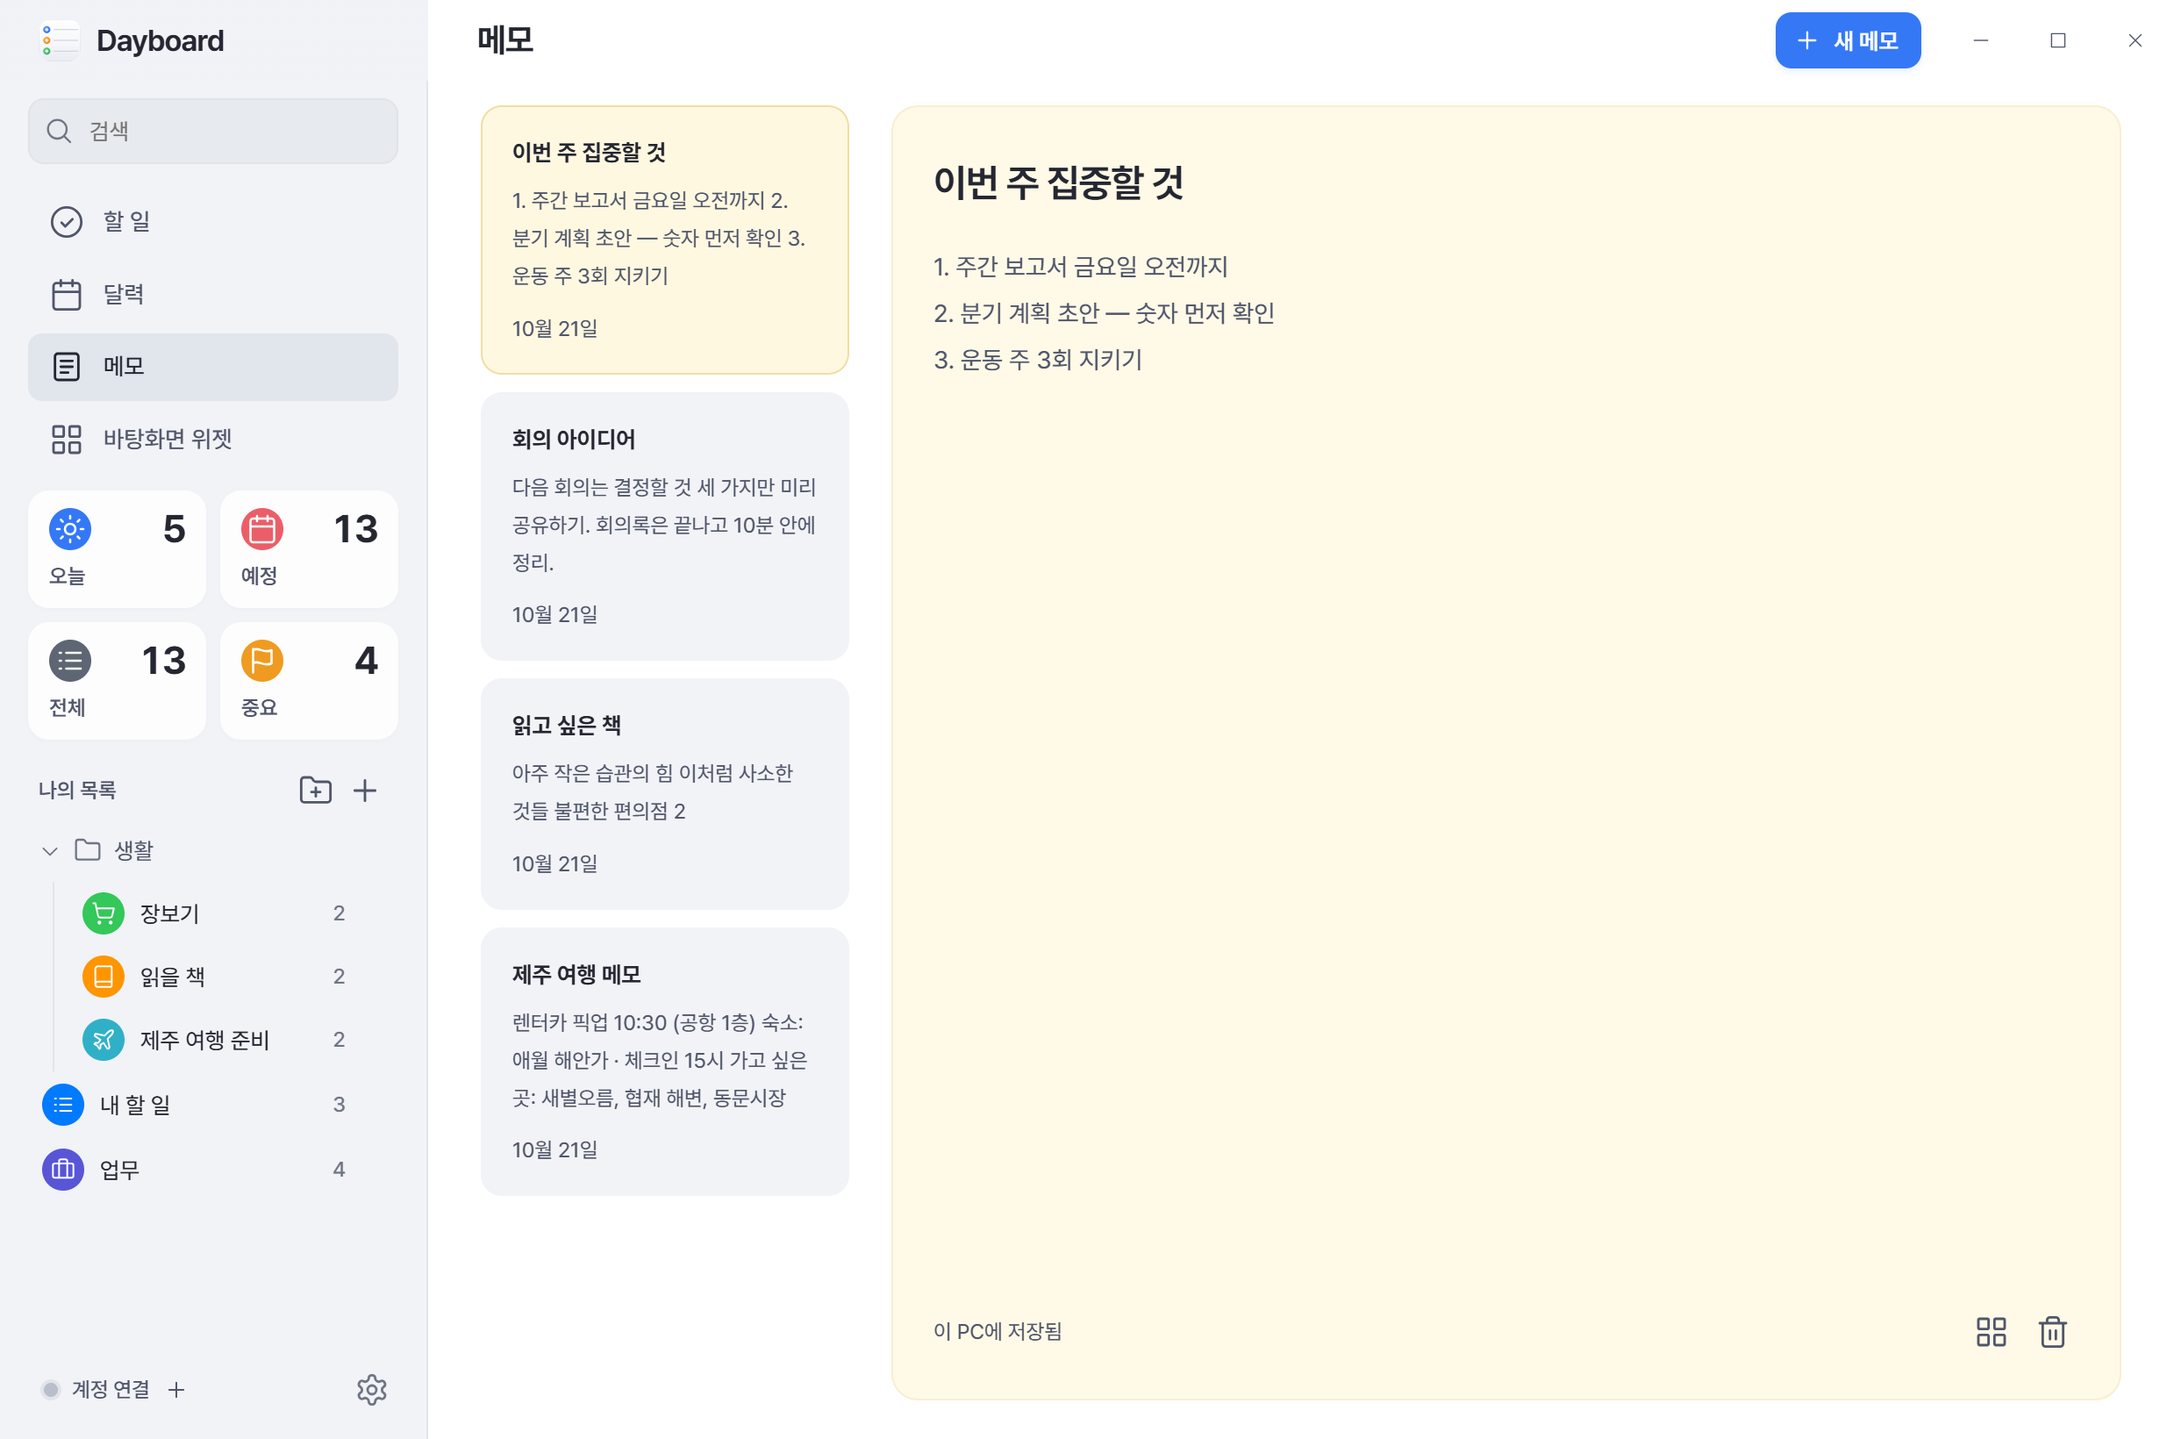
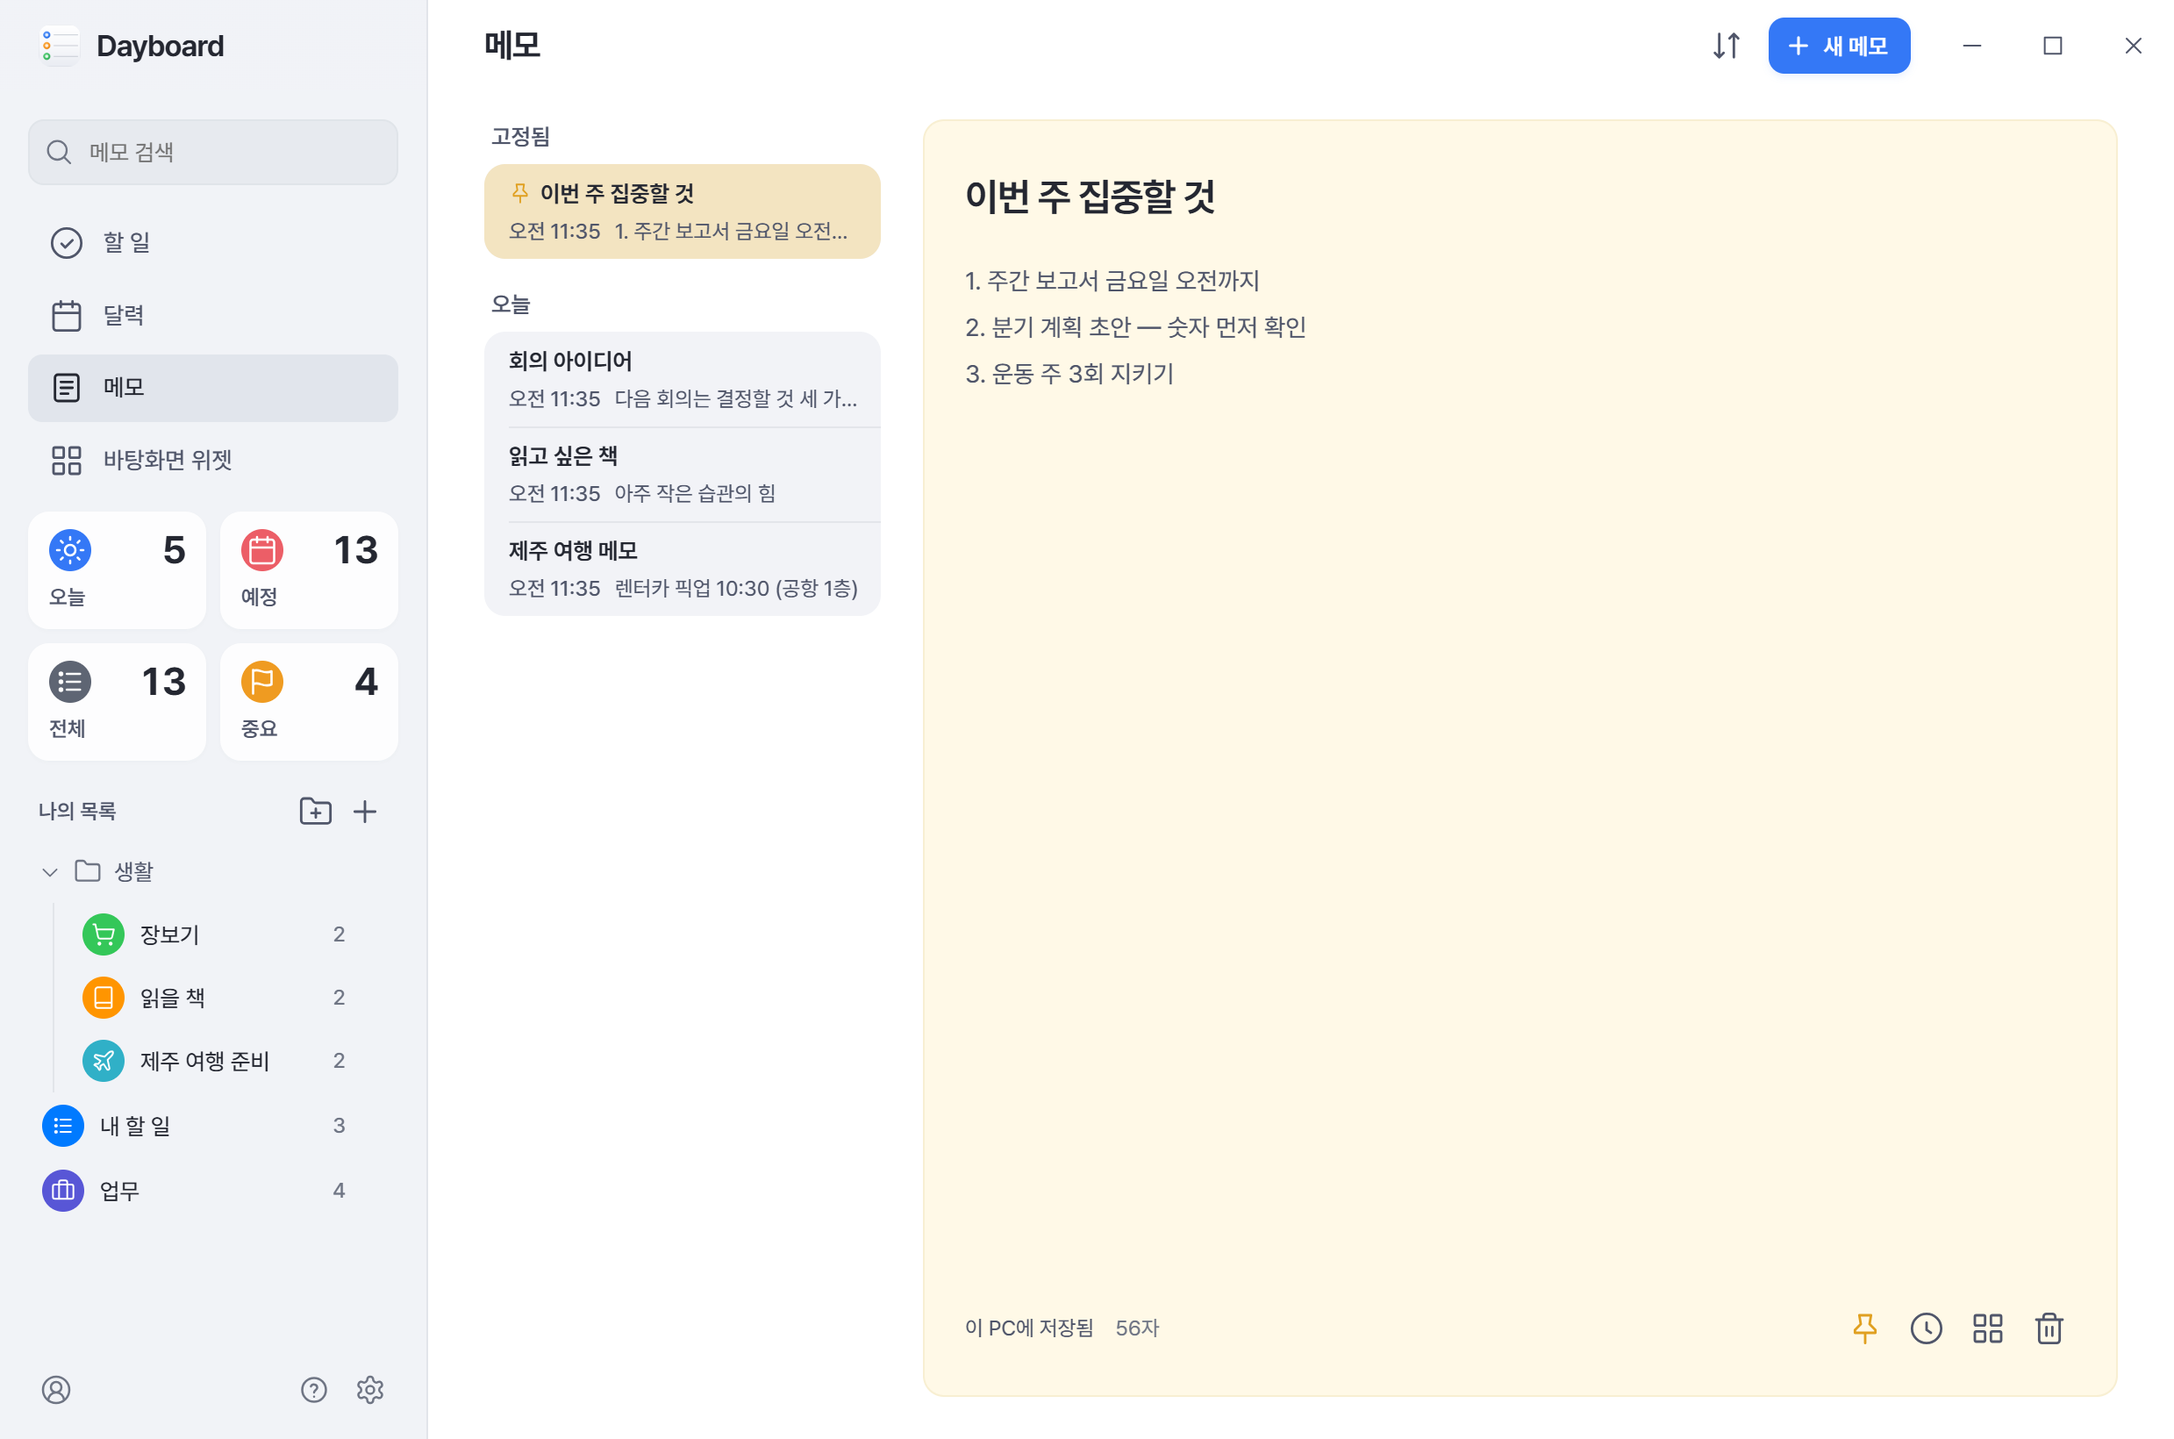
Update the screenshots, intro page and privacy policy for Dayboard 1.1.0

diff --git a/privacy.html b/privacy.html
@@ -25,22 +25,24 @@
 <body>
 <main>
   <h1>Dayboard 개인정보처리방침</h1>
-  <p class="meta">시행일 2026-10-21 · 운영자(개발자): 이재하</p>
+  <p class="meta">시행일 2026-10-26 · 운영자(개발자): 이재하</p>
 
-  <p>Dayboard는 Windows용 개인 할 일·달력·메모 앱임. 서버·회원 가입·광고가 없으며, 사용자가 연결한 계정의 데이터는 <strong>사용자의 PC에만</strong> 저장함. 이 문서는 Dayboard가 어떤 정보를 어떤 목적으로 다루는지 설명함.</p>
+  <p>Dayboard는 Windows용 개인 할 일·달력·메모 앱임. 서버·회원 가입·광고가 없으며, 사용자가 연결한 계정의 데이터는 <strong>사용자의 PC에</strong> 저장함(메모 동기화를 켰을 때만 그 Google 계정의 드라이브에도 보관함). 이 문서는 Dayboard가 어떤 정보를 어떤 목적으로 다루는지 설명함.</p>
 
   <h2>1. 다루는 정보</h2>
   <table>
     <tr><th>연결 계정</th><th>가져오는 정보</th><th>용도</th></tr>
-    <tr><td>Google</td><td>계정 이메일·프로필 이름(<code>openid</code>, <code>email</code>, <code>profile</code>), Google Tasks 목록·할 일(<code>tasks</code>, 읽기·편집), Google 캘린더 달력 목록·일정(<code>calendar.readonly</code>, 읽기 · <code>calendar.events</code>, 일정 추가·수정·삭제)</td><td>연결된 계정 표시, 할 일 표시·추가·수정·완료, 일정 표시·추가·수정·삭제</td></tr>
-    <tr><td>Microsoft</td><td>계정 정보, Microsoft To Do 목록·할 일(읽기·편집), Outlook 달력 일정(읽기·편집)</td><td>같음</td></tr>
+    <tr><td>Google</td><td>계정 이메일·프로필 이름(<code>openid</code>, <code>email</code>, <code>profile</code>), Google Tasks 목록·할 일(<code>tasks</code>, 읽기·편집), Google 캘린더 달력 목록·일정(<code>calendar.readonly</code>, 읽기 · <code>calendar.events</code>, 일정 추가·수정·삭제), Google 드라이브의 Dayboard 전용 앱 데이터 폴더(<code>drive.appdata</code>, 이 폴더만 읽기·쓰기)</td><td>연결된 계정 표시, 할 일 표시·추가·수정·완료, 일정 표시·추가·수정·삭제, 메모(이전 버전·최근 삭제한 메모 포함)를 사용자의 다른 PC에 있는 Dayboard와 맞추기</td></tr>
+    <tr><td>Microsoft</td><td>계정 정보, Microsoft To Do 목록·할 일(읽기·편집), Outlook 달력 일정(읽기·편집)</td><td>할 일·일정 표시·추가·수정·삭제</td></tr>
     <tr><td>Apple(iCloud)</td><td>사용자가 입력한 Apple 계정 이메일과 앱 전용 암호, iCloud 달력 일정(읽기·편집)</td><td>일정 표시·추가·수정·삭제</td></tr>
   </table>
   <p>계정을 연결하지 않으면 어떤 계정 정보도 다루지 않음. 사용자가 앱에 직접 적은 할 일·메모도 PC에만 저장됨.</p>
+  <p>메모 동기화는 Google 계정을 연결했을 때만 하며, 앱의 「계정」 화면에서 「메모」 스위치로 끌 수 있음. 앱 데이터 폴더는 Dayboard만 접근할 수 있고 드라이브 화면이나 다른 앱에는 보이지 않으며, Dayboard는 드라이브의 다른 파일을 보거나 바꾸지 않음.</p>
 
   <h2>2. 저장 위치와 보관 기간</h2>
   <ul>
-    <li>로그인 토큰과 앱 전용 암호는 사용자 PC의 Windows 암호화 저장소(앱 데이터 폴더의 암호화 파일)에만 저장하고, 가져온 할 일·일정은 같은 PC의 앱 데이터 폴더에 저장함.</li>
+    <li>로그인 토큰과 앱 전용 암호는 사용자 PC의 Windows 암호화 저장소(앱 데이터 폴더의 암호화 파일)에만 저장하고, 가져온 할 일·일정·메모는 같은 PC의 앱 데이터 폴더에 저장함.</li>
+    <li>메모 동기화를 켜면 메모(이전 버전·최근 삭제한 메모 포함)는 사용자 PC와 함께 그 Google 계정의 드라이브 앱 데이터 폴더에도 보관됨. 이 폴더의 내용은 사용자의 Google 계정에 속하며, 앱에서 연결을 해제하거나 Google 계정에서 Dayboard의 접근을 철회하면 Dayboard는 더 이상 그 폴더에 접근하지 않음.</li>
     <li>Dayboard는 서버를 운영하지 않으며, 이 정보를 개발자나 제3자에게 전송·판매·공유하지 않음. 분석·광고 목적으로도 쓰지 않음.</li>
     <li>정보는 각 서비스(Google·Microsoft·Apple)와 사용자 PC 사이에서만 오가며, 통신은 각 서비스의 공식 API와 HTTPS를 사용함.</li>
     <li>업데이트 확인 때는 GitHub의 Dayboard 릴리스에서 새 버전 정보와 설치 파일만 받아 오며, 사용자 데이터는 보내지 않음.</li>
@@ -49,7 +51,7 @@
 
   <h2>3. 사용자의 권리와 철회 방법</h2>
   <ul>
-    <li>앱의 <strong>계정 연결</strong> 화면에서 언제든 연결을 해제할 수 있음.</li>
+    <li>앱의 <strong>계정</strong> 화면에서 언제든 연결을 해제할 수 있음.</li>
     <li>Google 계정 권한은 <a href="https://myaccount.google.com/permissions" rel="noopener">Google 계정 → 보안 → 타사 앱 액세스</a>에서, Microsoft는 <a href="https://account.live.com/consent/Manage" rel="noopener">Microsoft 계정의 앱 및 서비스</a>에서, Apple 앱 전용 암호는 <a href="https://account.apple.com/" rel="noopener">account.apple.com</a>에서 철회·삭제할 수 있음.</li>
     <li>앱을 제거해도 앱 데이터 폴더(<code>%APPDATA%\Dayboard</code>)는 남음. 이 폴더까지 지우면 PC의 모든 저장 정보가 삭제됨.</li>
   </ul>
@@ -60,6 +62,7 @@
   <h2>5. 변경</h2>
   <p>이 방침이 바뀌면 이 페이지를 갱신하고 시행일을 고침.</p>
   <ul>
+    <li>2026-10-26: 메모를 Google 드라이브의 Dayboard 전용 앱 데이터 폴더(<code>drive.appdata</code>)로 사용자의 PC끼리 맞추는 기능을 반영함.</li>
     <li>2026-10-21: 연결한 달력에 일정을 추가·수정·삭제하는 권한과 업데이트 확인을 반영함.</li>
     <li>2026-10-19: 처음 시행.</li>
   </ul>
@@ -69,7 +72,8 @@
     <p>Dayboard is a personal Windows desktop app for tasks, calendar and notes made by an individual developer (Jaeha Lee). It has no server, no sign-up and no ads.</p>
     <ul>
       <li>With your consent it reads your Google account email/profile, reads and edits Google Tasks, and reads, adds, edits and deletes Google Calendar events; likewise Microsoft To Do / Outlook calendar and iCloud calendar if you connect them.</li>
-      <li>All tokens and data are stored only on your PC (Windows encrypted storage and the app data folder). Nothing is sent to the developer or any third party, and nothing is used for analytics or advertising. Update checks only download version information and installers from GitHub; no user data is sent.</li>
+      <li>If you keep notes sync on, your notes (including earlier versions and recently deleted notes) are also stored in a Dayboard-only app data folder of your Google Drive (<code>drive.appdata</code>) so that they stay in step between your own PCs. Dayboard never reads or changes any other Drive file, and you can turn this off with the Notes switch in the app.</li>
+      <li>All tokens and data are stored on your PC (Windows encrypted storage and the app data folder). Nothing is sent to the developer or any third party, and nothing is used for analytics or advertising. Update checks only download version information and installers from GitHub; no user data is sent.</li>
       <li>Disconnecting an account in the app deletes its credentials immediately. You can also revoke access at <a href="https://myaccount.google.com/permissions" rel="noopener">myaccount.google.com/permissions</a>.</li>
       <li>Dayboard&#39;s use and transfer to any other app of information received from Google APIs will adhere to the <a href="https://developers.google.com/terms/api-services-user-data-policy" rel="noopener">Google API Services User Data Policy</a>, including the Limited Use requirements.</li>
     </ul>

diff --git a/index.html b/index.html
@@ -38,9 +38,11 @@
   <section>
     <h2>무엇을 하는 앱인가</h2>
     <ul>
-      <li>할 일 목록, 월 달력, 메모를 한 창에서 보고 바탕화면 위젯으로 고정할 수 있음.</li>
+      <li>할 일 목록, 일·주·월 달력, 메모를 한 창에서 보고, 바탕화면 위젯으로 고정할 수 있음. 위젯은 Apple 리퀴드 글라스처럼 가장자리에서 바탕화면이 살짝 휘어 보이는 유리 카드이며, 어두운 바탕화면에서는 어두운 유리로 저절로 맞춰짐.</li>
       <li>Microsoft To Do·Outlook 달력, Google Tasks·Google 캘린더, iCloud 달력을 연결해 같은 할 일과 일정을 Windows에서 보고 고침. iCloud 미리 알림은 지원하지 않음.</li>
-      <li>개인이 만든 무료 앱이며 광고·회원 가입·서버가 없음. 모든 데이터는 사용자 PC에만 저장됨.</li>
+      <li>일정은 끌어서 옮기거나 늘리고 옆에 뜨는 카드에서 바로 고침. 반복 일정, 일정별 색, 방금 한 일 되돌리기·다시 실행, 처음 여는 사람을 위한 둘러보기와 「?」 단축키 도움말이 있음.</li>
+      <li>메모는 Google 계정을 연결하면 Google 드라이브의 Dayboard 전용 숨은 폴더를 거쳐 내 다른 PC의 Dayboard와 맞춰짐(Google Keep 등 다른 앱에는 보이지 않음). 지운 메모는 「최근 삭제한 메모」에 30일 남고, 메모마다 이전 버전을 최대 10개 되살릴 수 있음.</li>
+      <li>개인이 만든 무료 앱이며 광고·회원 가입·서버가 없음. 데이터는 사용자 PC에 저장되고, 메모 동기화를 켰을 때만 그 Google 계정의 드라이브에도 보관됨.</li>
     </ul>
   </section>
 
@@ -50,25 +52,28 @@
       <li><a href="https://github.com/nowsummer/Dayboard/releases/latest">최신 릴리스</a>에서 <code>Dayboard-&lt;버전&gt;.exe</code>를 내려받아 실행하면 관리자 권한 없이 설치되고 바로 시작됨.</li>
       <li>새 버전은 앱이 스스로 내려받아 두고, 설정에서 「지금 다시 시작해 적용」을 누를 때만 설치함. 버전별 변경 내용은 <a href="https://github.com/nowsummer/Dayboard/releases">릴리스</a>에 있음.</li>
       <li>서명되지 않은 새 설치 파일이라 Windows 스마트 앱 컨트롤이 몇 분 동안 막을 수 있음. 잠시 뒤 다시 실행.</li>
+      <li>앱 소스 코드는 같은 저장소에 MIT 라이선스로 공개되어 있음(<a href="https://github.com/nowsummer/Dayboard">github.com/nowsummer/Dayboard</a>).</li>
     </ul>
   </section>
 
-  <figure><img src="images/calendar.png" alt="Dayboard 달력 화면" width="1239" height="820" loading="lazy"><figcaption>달력 · 반복 일정과 일정별 색</figcaption></figure>
-  <figure><img src="images/widgets.png" alt="할 일·달력·메모 바탕화면 위젯" width="939" height="468" loading="lazy"><figcaption>바탕화면 위젯 · 할 일, 달력, 메모</figcaption></figure>
+  <figure><img src="images/calendar.png" alt="Dayboard 달력 화면" width="1239" height="820" loading="lazy"><figcaption>달력 · 월 보기, 반복 일정과 일정별 색</figcaption></figure>
+  <figure><img src="images/calendar-week.png" alt="Dayboard 주간 달력" width="1239" height="820" loading="lazy"><figcaption>달력 · 주 보기, 일정을 끌어서 옮기고 늘리기</figcaption></figure>
+  <figure style="max-width:520px;margin-left:auto;margin-right:auto"><img src="images/widgets.png" alt="할 일·달력·메모 바탕화면 위젯" width="800" height="1028" loading="lazy"><figcaption>바탕화면 위젯 · 할 일, 달력, 메모(리퀴드 글라스)</figcaption></figure>
   <p class="note">화면의 할 일·일정·메모는 예시 데이터임.</p>
 
   <section>
     <h2>Google 계정 연결에 대해</h2>
     <ul>
-      <li>「Google 계정으로 로그인」을 누르면 Google의 공식 로그인 화면이 열리고, Dayboard는 Google Tasks(읽기·편집)와 Google 캘린더(읽기, 일정 추가·수정·삭제), 계정 이메일·프로필(계정 확인)만 요청함.</li>
-      <li>받은 데이터는 사용자 PC에만 보관하고(로그인 정보는 Windows 암호화로 보호) 외부로 보내지 않음. 자세한 내용은 <a href="privacy.html">개인정보처리방침</a> 참조.</li>
-      <li>연결 해제는 앱의 「계정 연결」 화면에서 하거나, <a href="https://myaccount.google.com/permissions" rel="noopener">Google 계정의 앱 권한 페이지</a>에서 언제든 철회할 수 있음.</li>
+      <li>「Google 계정으로 로그인」을 누르면 Google의 공식 로그인 화면이 열리고, Dayboard는 Google Tasks(읽기·편집), Google 캘린더(읽기, 일정 추가·수정·삭제), Google 드라이브의 Dayboard 전용 앱 데이터 폴더(메모 동기화), 계정 이메일·프로필(계정 확인)만 요청함.</li>
+      <li>드라이브는 Dayboard만 쓰는 숨은 앱 데이터 폴더에만 접근하며 메모를 사용자의 다른 PC와 맞추는 데만 씀. 드라이브의 다른 파일은 보거나 바꾸지 않고, 앱의 「메모」 스위치로 끌 수 있음.</li>
+      <li>받은 데이터는 사용자 PC에 보관하고(로그인 정보는 Windows 암호화로 보호) 개발자나 제3자에게 보내지 않음. 자세한 내용은 <a href="privacy.html">개인정보처리방침</a> 참조.</li>
+      <li>연결 해제는 앱의 「계정」 화면에서 하거나, <a href="https://myaccount.google.com/permissions" rel="noopener">Google 계정의 앱 권한 페이지</a>에서 언제든 철회할 수 있음.</li>
     </ul>
   </section>
 
   <footer>
     <p><a href="privacy.html">개인정보처리방침</a></p>
-    <p lang="en">Dayboard is a personal Windows desktop widget for tasks, calendar and notes. It stores all data locally on your PC and connects to Google Tasks / Google Calendar only with your consent. Download the installer from the <a href="https://github.com/nowsummer/Dayboard/releases/latest">latest release</a>. See the <a href="privacy.html">privacy policy</a>.</p>
+    <p lang="en">Dayboard is a personal Windows desktop widget for tasks, calendar and notes. It stores your data on your PC, connects to Google Tasks / Google Calendar only with your consent, and can keep your notes in step between your own PCs through a Dayboard-only app data folder in your Google Drive. Download the installer from the <a href="https://github.com/nowsummer/Dayboard/releases/latest">latest release</a>; the source code is in the same repository under the MIT License. See the <a href="privacy.html">privacy policy</a>.</p>
   </footer>
 </main>
 </body>
